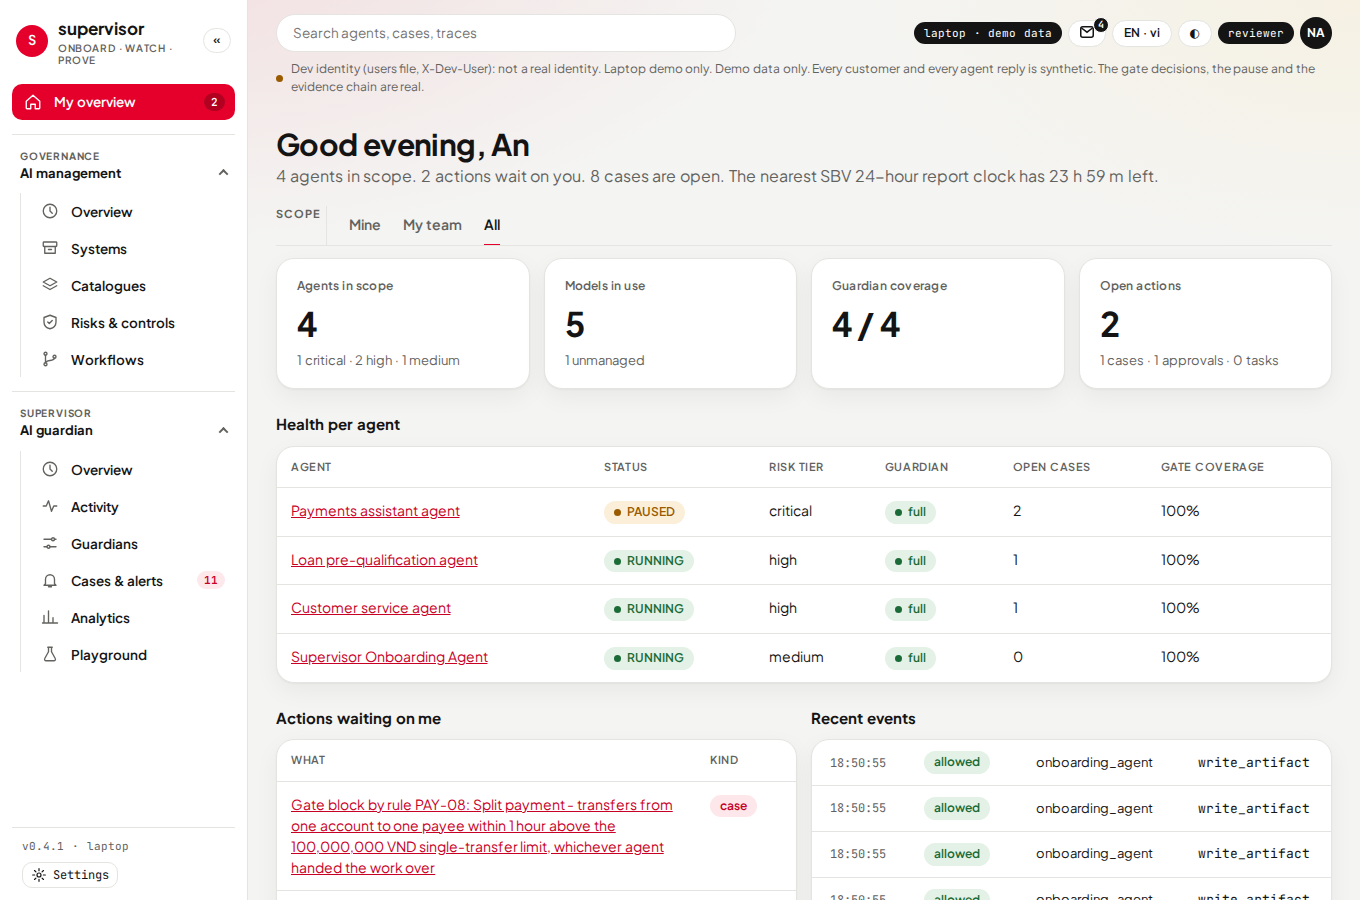
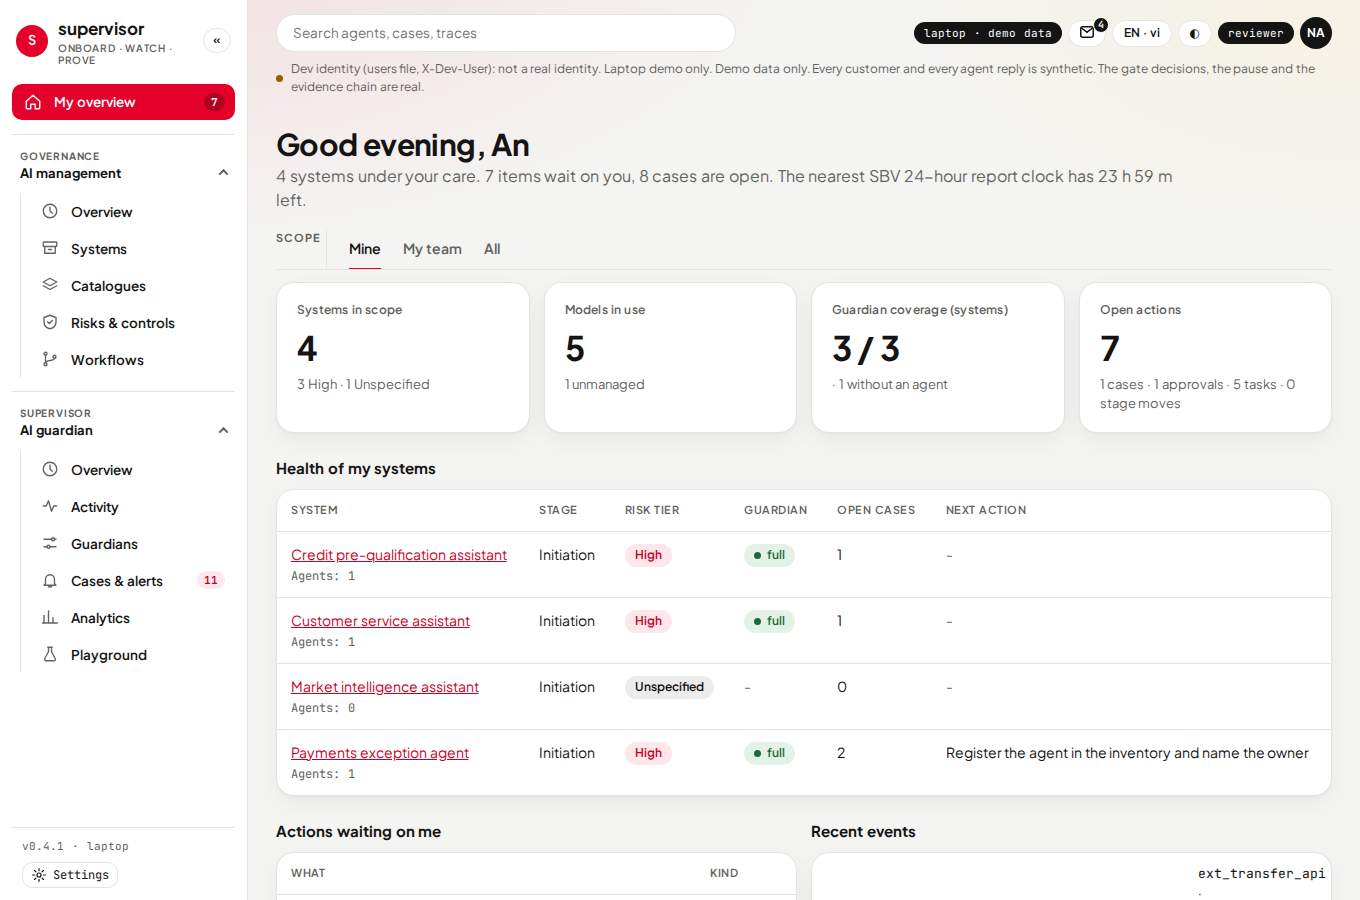
WP-UX4b: docs (console, governance), CHANGELOG, screenshots tool seeds systems, screens-v3 replaced, wizard forms use htmx, UX4a tests pin governance off for the agent path
Claude-Session: https://claude.ai/code/session_0154Ro9vi7onrUuJ6n94CirG

diff --git a/src/supervisor/console/templates/system_new.html b/src/supervisor/console/templates/system_new.html
@@ -14,7 +14,7 @@
 </ol>
 <p class="hint">{{ t('ux4b_wiz_hint') }}</p>
 {% if scoped %}<p class="hint" data-wizard="scope">{{ t('ux4b_wiz_scope', teams=teams|join(', ') or '-') }}</p>{% endif %}
-<form class="card wizform" method="post" action="/console/systems/new/checks?lang={{ lang }}" data-wizard="intake">
+<form class="card wizform" method="post" action="/console/systems/new/checks?lang={{ lang }}" hx-post="/console/systems/new/checks?lang={{ lang }}" hx-target="#main" hx-select="#main" hx-swap="outerHTML" hx-push-url="false" data-wizard="intake">
   <label>{{ t('sy_col_name') }} <input type="text" name="name" required maxlength="120"></label>
   <label>{{ t('sy_col_team') }} <input type="text" name="owner_team" required maxlength="128"{% if teams|length == 1 %} value="{{ teams[0] }}"{% endif %}></label>
   <label>{{ t('sy_f_purpose') }} <textarea name="purpose" required maxlength="2000" rows="3"></textarea></label>

diff --git a/src/supervisor/console/templates/system_new_result.html b/src/supervisor/console/templates/system_new_result.html
@@ -99,7 +99,7 @@
   {% else %}<p class="hint">{{ t('ux4b_floor_none') }}</p>{% endif %}
 </section>
 
-<form method="post" action="/console/systems/new?lang={{ lang }}" class="card" data-wizard="confirm">
+<form method="post" action="/console/systems/new?lang={{ lang }}" hx-post="/console/systems/new?lang={{ lang }}" hx-swap="none" class="card" data-wizard="confirm">
   {% for k, v in d.form.items() %}{% if v is sameas true %}<input type="hidden" name="{{ k }}" value="1">{% elif v is sameas false %}{% else %}<input type="hidden" name="{{ k }}" value="{{ v }}">{% endif %}
   {% endfor %}
   <p>{{ t('ux4b_confirm_line') }}</p>

diff --git a/tools/console_screenshots.py b/tools/console_screenshots.py
@@ -53,8 +53,15 @@ with sync_playwright() as p:
         page = ctx.new_page()
         page.goto(cfg["base"] + shot["path"], wait_until="networkidle")
         page.evaluate("document.fonts.ready")
+        for name, value in (shot.get("fill") or {}).items():  # WP-UX4b: the wizard form
+            page.fill('[name="' + name + '"]', value)
+        for name in shot.get("check") or []:
+            page.check('[name="' + name + '"]')
         if shot.get("click") and page.locator(shot["click"]).count():
             page.click(shot["click"])
+            if shot.get("wait"):  # an htmx swap: wait for what it brings, not for the network
+                page.wait_for_selector(shot["wait"], timeout=30000)
+                page.evaluate("window.scrollTo(0, 0)")
             page.wait_for_load_state("networkidle")
             page.wait_for_timeout(300)
         page.screenshot(path=shot["file"])
@@ -211,9 +218,10 @@ WAVE2_FLAGS = {
 
 
 # WP-UX4a: the merged bar (CONSOLE_NAV_V3) and the pages behind it, with the role each needs.
+# WP-UX4b: with GOVERNANCE_ENABLED the overviews count systems; the system page tabs, the register
+# wizard and the System column of Catalogues > Agents. {sys_*} are filled from the seeded names.
 V3_SCREENS = [
     ("v3-my-overview", "/console/", "reviewer.an", None),
-    ("v3-my-overview-collapsed", "/console/", "reviewer.an", "[data-side-collapse]"),
     ("v3-settings-drawer", "/console/", "admin.chi", "a.gear-btn"),
     ("v3-governance", "/console/governance?scope=all", "reviewer.an", None),
     ("v3-supervisor", "/console/supervisor?scope=all", "reviewer.an", None),
@@ -227,7 +235,31 @@ V3_SCREENS = [
     ("v3-catalogues-models", "/console/catalogues?tab=models", "reviewer.an", None),
     ("v3-catalogues-agents", "/console/catalogues", "reviewer.an", None),
     ("v3-risks-controls", "/console/risks-controls", "reviewer.an", None),
+    # WP-UX4b
+    ("v3-systems", "/console/systems", "reviewer.an", None),
+    ("v3-system-overview", "/console/systems/{sys_payments}", "reviewer.an", None),
+    ("v3-system-risks", "/console/systems/{sys_payments}?tab=risks", "reviewer.an", None),
+    ("v3-system-controls", "/console/systems/{sys_payments}?tab=controls", "reviewer.an", None),
+    ("v3-system-policies", "/console/systems/{sys_payments}?tab=policies", "reviewer.an", None),
+    ("v3-system-guardians", "/console/systems/{sys_payments}?tab=guardians", "reviewer.an", None),
+    ("v3-system-reports", "/console/systems/{sys_payments}?tab=reports", "reviewer.an", None),
+    ("v3-system-new", "/console/systems/new", "reviewer.an", None),
 ]
+# the wizard result page is a POST: fill the form, tick the box, press the button
+V3_WIZARD_RESULT = {
+    "name": "v3-system-new-result",
+    "path": "/console/systems/new",
+    "user": "reviewer.an",
+    "fill": {
+        "name": "Collections assistant",
+        "owner_team": "Payments Ops",
+        "purpose": "Drafts reminders for customers with late instalments.",
+        "repo_path": "src/supervisor_agents/payments",
+    },
+    "check": ["money_movement"],
+    "click": 'form[data-wizard="intake"] button[type=submit]',
+    "wait": '[data-wizard="proposals"]',
+}
 V3_FLAGS = {
     **WAVE2_FLAGS,
     "CONSOLE_NAV_V3": "1",
@@ -235,7 +267,68 @@ V3_FLAGS = {
     "CONSOLE_DECISIONS_V2": "1",
     "ALERTS_ENABLED": "1",
     "CONSOLE_CATALOG_ENABLED": "1",
+    "GOVERNANCE_ENABLED": "1",  # WP-UX4b: systems are the unit of the overviews
+    "CONSOLE_SYSTEMS_ENABLED": "1",
 }
+# WP-UX4b: (name, owner team, owner, agent linked, manual risk level)
+V3_SYSTEMS = [
+    ("Payments exception agent", "Payments Ops", "reviewer.an", "payments", "high"),
+    (
+        "Credit pre-qualification assistant",
+        "Consumer Lending",
+        "reviewer.an",
+        "credit_prequal",
+        "medium",
+    ),
+    ("Customer service assistant", "Retail Customer Care", "reviewer.an", "customer_service", None),
+    ("Market intelligence assistant", "Payments Ops", "reviewer.an", None, None),
+]
+
+
+def _seed_systems(data_dir: Path) -> dict[str, str]:
+    """WP-UX4b: four AI systems for the system pages (synthetic; the demo agents are linked).
+    Returns the ids, by the key used in V3_SCREENS ({sys_payments}). A repeat is a no-op."""
+    from supervisor.adapters.factory import build_adapters
+    from supervisor.config import load_settings
+    from supervisor.core.errors import SupervisorError
+    from supervisor.governance.systems import SystemService, system_id_for
+
+    a = build_adapters(
+        load_settings(data_dir=data_dir, sql_backend="sqlite", governance_enabled=True)
+    )
+    ids = {}
+    try:
+        svc = SystemService.from_adapters(a)
+        for name, team, owner, agent, level in V3_SYSTEMS:
+            sid = system_id_for(name)
+            ids[agent or "draft"] = sid
+            try:
+                svc.register(
+                    {
+                        "name": name,
+                        "owner_user": owner,
+                        "owner_team": team,
+                        "purpose": f"{name}: synthetic demo system.",
+                        "system_type": "assistant",
+                        "org_role": "deployer",
+                        "user_segment": "internal",
+                        "personal_data": "pseudonymised",
+                        "human_control": "post_review",
+                    },
+                    owner,
+                )
+                if level:
+                    changes = {"risk_level": level}
+                    if level == "high":
+                        changes["decision33_class"] = "high_risk"
+                    svc.update_fields(sid, changes, owner)
+                if agent:
+                    svc.link(sid, "agent", agent, owner)
+            except SupervisorError:
+                say(f"[SKIP] system {name} exists")
+    finally:
+        a.close()
+    return ids
 
 
 def _seed_wave2(data_dir: Path, py: str, env: dict[str, str]) -> None:
@@ -448,6 +541,7 @@ def main(argv: list[str] | None = None) -> int:
         _seed_ux2(data_dir, py, env)
     if args.wave2 or args.v3:
         _seed_wave2(data_dir, py, env)
+    sys_ids: dict[str, str] = _seed_systems(data_dir) if args.v3 else {}
 
     out = Path(os.path.abspath(args.out))
     out.mkdir(parents=True, exist_ok=True)
@@ -529,7 +623,10 @@ def main(argv: list[str] | None = None) -> int:
                 ("inventory", "/console/inventory", None),
             ]
         if args.v3:  # only the WP-UX4a pages, with the role each one needs
-            screens = [(n, p, c) for n, p, _, c in V3_SCREENS]
+            screens = [
+                (n, p.replace("{sys_payments}", sys_ids.get("payments", "none")), c)
+                for n, p, _, c in V3_SCREENS
+            ]
             who = {n: u for n, _, u, _ in V3_SCREENS}
         elif args.wave2:  # only the wave-2 pages, with the role each one needs
             screens = [(n, p, c) for n, p, _, c in WAVE2_SCREENS]
@@ -570,6 +667,12 @@ def main(argv: list[str] | None = None) -> int:
             dark["file"] = str(out / "decisions-en-dark.png")
         else:
             dark = {"path": "/console/?lang=en", "file": str(out / "overview-en-dark.png")}
+        if args.v3:  # WP-UX4b: the wizard result page (a POST, driven by fill and click)
+            for lang in ("en", "vi"):
+                w = dict(V3_WIZARD_RESULT)
+                w["file"] = str(out / f"{w.pop('name')}-{lang}.png")
+                w["path"] = f"{w['path']}?lang={lang}"
+                shots.append(w)
         shots.append({**dark, "scheme": "dark"})
         with tempfile.TemporaryDirectory() as tmp:
             script = Path(tmp) / "capture.py"

diff --git a/tests/console/test_nav_v3.py b/tests/console/test_nav_v3.py
@@ -299,7 +299,11 @@ def test_pages_without_a_section_have_no_strip(v3all: Console) -> None:
 # ------------------------------------------------------------------ numbers
 
 
-def test_my_overview_numbers_are_integers_from_existing_services(v3all: Console) -> None:
+def test_my_overview_numbers_are_integers_from_existing_services(
+    v3all: Console, monkeypatch: pytest.MonkeyPatch
+) -> None:
+    # WP-UX4b: with GOVERNANCE_ENABLED on the page counts systems; this is the agent path
+    monkeypatch.setattr(v3all.ctx.settings, "governance_enabled", False)
     main = _main(v3all.get("/console/?lang=en").text)
     agents = v3all.ctx.state.query("agent")
     m = re.search(BIGNUM.format(key="agents"), main)
@@ -311,7 +315,10 @@ def test_my_overview_numbers_are_integers_from_existing_services(v3all: Console)
         assert re.fullmatch(r"\d+\+?|\d+ / \d+|\d+%|not available", text), text
 
 
-def test_my_overview_scope_my_shows_only_owned_agents(v3all: Console) -> None:
+def test_my_overview_scope_my_shows_only_owned_agents(
+    v3all: Console, monkeypatch: pytest.MonkeyPatch
+) -> None:
+    monkeypatch.setattr(v3all.ctx.settings, "governance_enabled", False)  # WP-UX4b: agent path
     agents = v3all.ctx.state.query("agent")
     owner = sorted({a["owner_user"] for a in agents})[0]
     mine = [a for a in agents if a["owner_user"] == owner]
@@ -349,6 +356,7 @@ def test_governance_numbers_with_controls_on(
     from tests.conftest import REPO_ROOT
 
     s = v3all.ctx.settings
+    monkeypatch.setattr(s, "governance_enabled", False)  # WP-UX4b: this is the agent path
     for flag in ("controls_enabled", "risk_register_enabled"):
         monkeypatch.setattr(s, flag, True)
     risks = v3all.ctx.risks.import_path(REPO_ROOT / "config" / "risks", "t", source="starter")

diff --git a/src/supervisor/console/i18n.py b/src/supervisor/console/i18n.py
@@ -3940,7 +3940,7 @@ _T.update(
         "ux4b_kind_stage": ("Stage move", "Chuyển giai đoạn"),
         "ux4b_health_systems": ("Health of my systems", "Tình trạng các hệ thống của tôi"),
         "ux4b_system": ("System", "Hệ thống"),
-        "ux4b_agents_n": ("{n} agents", "{n} tác tử"),
+        "ux4b_agents_n": ("Agents: {n}", "Tác tử: {n}"),
         "ux4b_next_action": ("Next action", "Việc tiếp theo"),
         "ux4b_no_systems": (
             "No system in this scope.",

diff --git a/docs/console.md b/docs/console.md
@@ -182,6 +182,38 @@ the SIEM and webhook sinks. There is no editor yet.
 Errors are HTTP 400 with a message. Screenshots: `uv run python tools/console_screenshots.py --v3
 --reseed --out docs/design/screens-v3 --data-dir <new folder>`.
 
+### Systems pages (WP-UX4b, `CONSOLE_NAV_V3` and `CONSOLE_SYSTEMS_ENABLED`)
+
+The governance pages on the AI system (`docs/governance.md`). With `CONSOLE_NAV_V3` off, or the
+page flags off, nothing below exists and the Systems page is the one of WP-G0.
+
+System page tabs: Overview, Components, Risks, Controls, Policies, Guardians, Tasks, Reviews,
+Reports (WP-G2 will add Rules and Classification after Components). A tab needs the permission of
+the page it summarises. All tabs read the agents linked to the system.
+
+| Tab | Source | Not available when |
+|---|---|---|
+| Risks | register rows that reach the linked agents or sit on a linked node, with the anchor ("inherited from") | `RISK_REGISTER_ENABLED` off |
+| Controls | `control_status` per control and agent, compliance figure in bp (working over in scope) | `CONTROLS_ENABLED` off |
+| Policies | compliance matrices of the linked agents added up by instrument (apply, met, partial, gap); an agent with no matrix is listed apart | `CONSOLE_COMPLIANCE_ENABLED` off, or no matrix |
+| Guardians | detectors on per agent (detector file, per-agent enable and disable, `DETECTORS_ENABLED`), mandatory ones, judges (labelled `mock` without a model), monitors, the WP-G2 floor | floor: rules engine not merged |
+| Reports | latest transparency report per variant and agent, chain verify state per agent lane, audit pack link, incidents slot | transparency off; incidents until WP-G5 and its flag |
+
+Register wizard `/console/systems/new` (needs `systems.edit`): step 1 intake (plus `autonomy_level`
+once WP-G2 adds it, and an optional repository folder for people who may start onboarding), step 2
+`POST /console/systems/new/checks` runs the preliminary checks and writes nothing, step 3
+`POST /console/systems/new` registers the draft and opens the tasks `SYS-INTAKE-CONFIRM` and
+`SYS-INTAKE-CHECKS`. The result page shows the readiness score and band (80+ ready, 50-79 needs the
+patches, below 50 needs work; static analysis, no model), the class proposal (money movement or a
+credit decision without a human approval before the action is high risk; WP-G2 rules win when
+merged), the assurance packs per dimension and the guardian floor. Scoped people register for
+themselves and for a team they already work in. A bad input is HTTP 400 with the reason.
+
+Overviews: with `GOVERNANCE_ENABLED` on, My overview and Governance overview count systems. Scope:
+my = systems I own or am on, team = systems of my teams, all = what the role may see. The agent-based
+pages are used when the flag is off. Catalogues > Agents has a System column and a linked or
+unlinked filter (both flags needed).
+
 ### Components
 
 Server-rendered Jinja2 macros and partials; htmx only; the CSS is in `static/console.css`

diff --git a/CHANGELOG.md b/CHANGELOG.md
@@ -2,6 +2,16 @@
 
 ## Unreleased
 
+### WP-UX4b: governance pages on the AI system
+
+Needs `CONSOLE_NAV_V3=1` and `CONSOLE_SYSTEMS_ENABLED=1` (with `GOVERNANCE_ENABLED=1`). With the flags off nothing changes; with `GOVERNANCE_ENABLED` off the two overviews keep the agent-based pages of WP-UX4a.
+
+- System page tabs Risks, Controls, Policies, Guardians (read only) and Reports, in the order Overview, Components, Risks, Controls, Policies, Guardians, Tasks, Reviews, Reports. Every figure comes from the existing risk, control, compliance, detector and transparency services; a figure that cannot be computed shows "not available" and the reason. The Reports tab has a guarded slot for incidents (WP-G5).
+- Register wizard `/console/systems/new`: intake, preliminary checks (readiness advisor on a repository folder, assurance packs for the declared system, Decision 33 class proposal, guardian floor), one result page. Nothing is applied; confirming registers a draft and opens two initiation tasks.
+- My overview and Governance overview count systems when `GOVERNANCE_ENABLED` is on (risk level, classification rate, control readiness per system, overdue tasks, stage table, by autonomy level when the column exists).
+- Catalogues > Agents: a System column and a linked / unlinked filter.
+- Screenshots in `docs/design/screens-v3` replaced; `tools/console_screenshots.py --v3` seeds four systems.
+
 ### WP-G3: Databricks auto-record v2 and agent auto-define
 
 Two new flags, both off by default (off = the inventory scan and the governance tables are as before). `INVENTORY_SCAN_V2=1` turns on the scan sources v2; `INVENTORY_AUTOREGISTER=1` the draft registration.

diff --git a/docs/governance.md b/docs/governance.md
@@ -281,3 +281,11 @@ through the API. EN and VI strings sit in one block marked WP-G1 in `console/i18
 ## 14. Draft systems from the workspace scan (WP-G3)
 
 With `INVENTORY_AUTOREGISTER=1` the inventory scan registers a draft system (status draft, risk `unspecified`, tag `source=workspace_scan`) for each unmanaged App, agent endpoint or Genie space, with a default owner from `config/governance.yaml`, and opens the task "Confirm context". See `docs/inventory.md`, "Draft registration from the scan".
+
+## 20. Console pages (WP-UX4b)
+
+With `CONSOLE_NAV_V3=1` the system page has the tabs Risks, Controls, Policies, Guardians (read only)
+and Reports, the register wizard is at `/console/systems/new`, and the overviews count systems. See
+`docs/console.md`, "Systems pages". The wizard registers a draft and opens two initiation tasks of the
+system itself (`SYS-INTAKE-CONFIRM`, `SYS-INTAKE-CHECKS`, as the workspace scan does for "Confirm
+context"). It applies no class, level or floor.
